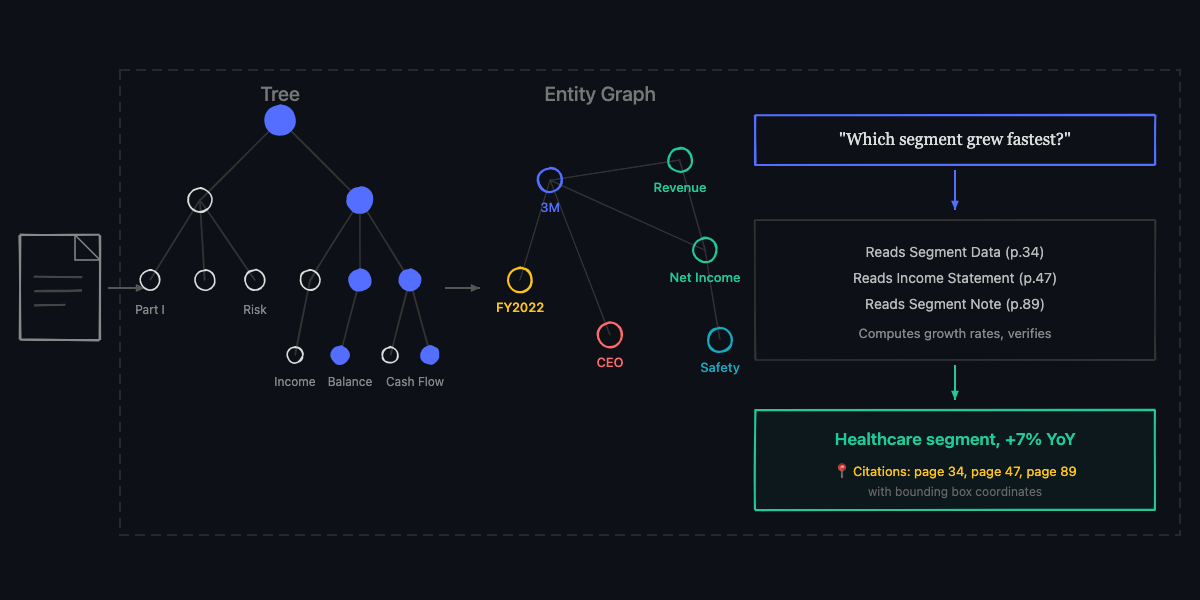
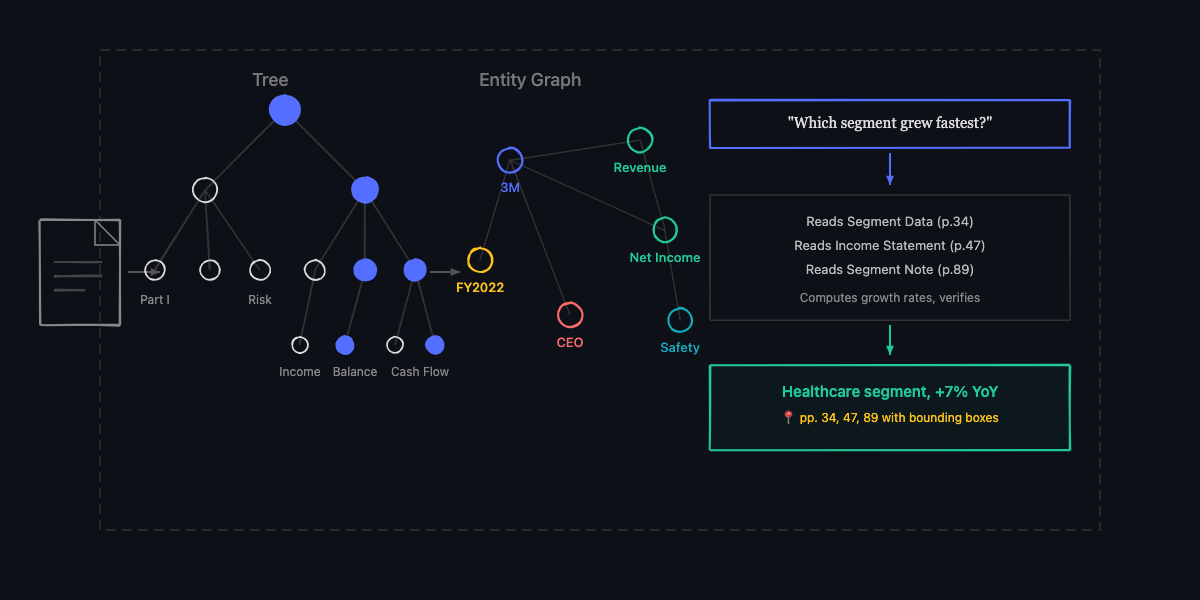
Add entity graph visualization, fix diagram padding

diff --git a/README.md b/README.md
@@ -91,6 +91,12 @@ print(answer.citations[0].pages)          # [52]
 print(answer.citations[0].bounding_boxes) # exact coordinates on the page
 ```
 
+### Entity graph visualization
+
+<p align="center">
+  <img src="assets/viz-graph.gif" alt="Entity Graph — 3M 2018 10-K" width="900"/>
+</p>
+
 ### Query modes
 
 | Mode | LLM calls | Best for |
